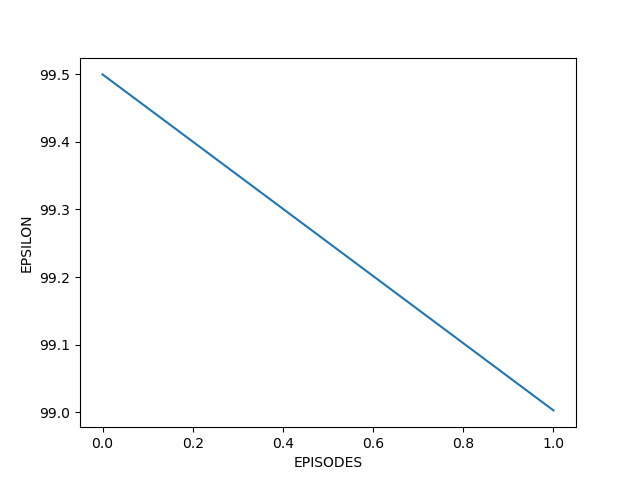
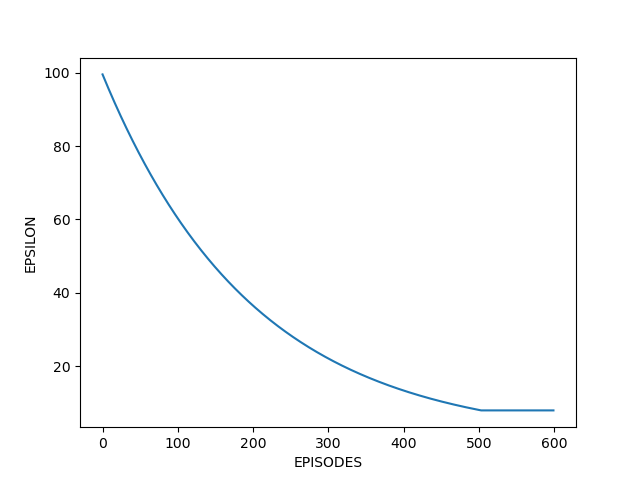
per commit

diff --git a/Implementation/PER/code/main.py b/Implementation/PER/code/main.py
@@ -1,6 +1,7 @@
 import gym
 import torch.optim as optim
 import torch
+import csv
 from DDQNAgent import DDQNAgent
 from ReplayBuffer import ReplayBuffer
 from train import *
@@ -9,7 +10,7 @@ from utils import *
 # HYPERPARAMETER
 BATCH_SIZE = 32
 BUFFER_MAXLEN = 10000
-EPISODES = 100
+EPISODES = 600
 GAMMA = 0.99
 LEARNING_RATE = 0.001
 TRAIN_RATE = 10
@@ -18,16 +19,17 @@ EPSILON_END = 0.08
 EPSILON_DECAY = 0.995
 EPSILON_SAMPLE = 0.01
 WEIGHT_DECAY = 0.001
-ALPHA = 0.7
-BETA = 0.5
-
+ALPHA = 0.3
+BETA_START = 0.5
+BETA_END = 1
+BETA_RATE = 1.001
 
 def main():
     env = gym.make('LunarLander-v2')
     agent_train = DDQNAgent()
     agent_target = DDQNAgent()
     agent_target.load_state_dict(agent_train.state_dict())
-    buffer = ReplayBuffer(BUFFER_MAXLEN, EPSILON_SAMPLE, ALPHA, BETA)
+    buffer = ReplayBuffer(BUFFER_MAXLEN, EPSILON_SAMPLE, ALPHA, BETA_START)
     optimizer = optim.Adam(agent_train.parameters(), lr=LEARNING_RATE, weight_decay=WEIGHT_DECAY)
     epsilon = EPSILON_START
     episode_lst, reward_lst, qvalue_lst, epsilon_lst = [], [], [], []
@@ -59,19 +61,28 @@ def main():
             # train for each step and update
             if buffer.size() > 5000:
                 if step_cnt % 10 and step_cnt != 0:
-                    # train_dqn() or train_ddqn()
                     train_ddqn(agent_train, agent_target, buffer, optimizer, BATCH_SIZE, GAMMA)
+
                 if step_cnt % 20 and step_cnt != 0:
                     load_network(agent_train, agent_target)
 
-        print("EPISODES : {:d}, REWARD : {:.1f}, EPSILON : {:.1f}%, BUFFER_SIZE : {:d} STEP CNT : {:d}".format(epi, reward_total, epsilon*100, buffer.size(), step_cnt))
+        print("EPISODES : {:d}, REWARD : {:.1f}, EPSILON : {:.1f}%, BUFFER_SIZE : {:d} STEP CNT : {:d}, BETA : {:.3f}".format(epi, reward_total, epsilon*100, buffer.size(), step_cnt, buffer.get_beta()))
         
         epsilon = decaying_eps(epsilon, EPSILON_END, EPSILON_DECAY)
+        buffer.improving_beta(BETA_END, BETA_RATE)
+
         # append list to plot
         episode_lst.append(epi)
         reward_lst.append(reward_total)
         qvalue_lst.append(qvalue_total / float(step_cnt))
         epsilon_lst.append(epsilon*100)
+    
+    with open('output_data.csv', 'w', newline='') as f:
+        writer = csv.writer(f)
+        writer.writerow(episode_lst)
+        writer.writerow(reward_lst)
+        writer.writerow(qvalue_lst)
+        writer.writerow(epsilon_lst)
 
     plot_reward(episode_lst, reward_lst)
     plot_qvalue(episode_lst, qvalue_lst)

diff --git a/Implementation/PER/code/ReplayBuffer.py b/Implementation/PER/code/ReplayBuffer.py
@@ -15,7 +15,7 @@ class ReplayBuffer():
         self.buffer.append(step_data)
 
     def get_priority(self):
-        # rank-based prioritization
+        # get priority(td error + epsilon) in whole memory
         td_errors = []
         for i in range(len(self.buffer)):
             td_error_item= self.buffer[i][0].detach().numpy().item()
@@ -27,10 +27,8 @@ class ReplayBuffer():
 
     def update_priority(self, td_error_lst, selected_idx):
         for i in range(len(td_error_lst)):
-            print("BEFORE UPDATE : ", self.buffer[selected_idx[i]][0])
             self.buffer[selected_idx[i]][0] = td_error_lst[i]
-            print("AFTER UPDATE : ", self.buffer[selected_idx[i]][0])
-   
+
     def sample(self, batch_size):
         priority = self.get_priority()
         probability = priority / np.sum(priority)
@@ -52,6 +50,26 @@ class ReplayBuffer():
             done_lst.append(done)
 
         return torch.tensor(state_lst, dtype=torch.float32), torch.tensor(action_lst), torch.tensor(reward_lst, dtype=torch.float32), torch.tensor(obs_lst), torch.tensor(done_lst, dtype=torch.float32), selected_idx
+    
+    def get_is_weight(self, selected_idx, batch_size):
+        # get IS-weight for sampled element
+        priority = self.get_priority()
+        probability = priority / np.sum(priority)
+        # is_weight -> IS-weight for all element
+        is_weight = (self.size() * probability) ** (-self.beta)
+        selected_is_weight = []
+        for i in range(batch_size):
+            selected_is_weight.append(is_weight[selected_idx[i]])
+        selected_is_weight = selected_is_weight / np.max(is_weight)
+        
+        return selected_is_weight
+
+    def improving_beta(self, beta_end, beta_rate):
+        if self.beta < beta_end:
+            self.beta *= beta_rate
 
     def size(self):
         return len(self.buffer)
+
+    def get_beta(self):
+        return self.beta

diff --git a/Implementation/PER/code/train.py b/Implementation/PER/code/train.py
@@ -1,9 +1,11 @@
 from ReplayBuffer import *
 from DDQNAgent import DDQNAgent
 import torch.nn.functional as F
+import torch
 
 def train_ddqn(agent_train, agent_target, buffer, optimizer, batch_size, gamma):
     state_lst, action_lst, reward_lst, obs_lst, done_lst, selected_idx = buffer.sample(batch_size)
+            
     action_lst, reward_lst, done_lst = action_lst.unsqueeze(1), reward_lst.unsqueeze(1), done_lst.unsqueeze(1)
     
     q_lst = agent_train(state_lst).gather(1, action_lst)
@@ -11,10 +13,13 @@ def train_ddqn(agent_train, agent_target, buffer, optimizer, batch_size, gamma):
     target_action_lst = agent_train(obs_lst).max(1)[1].unsqueeze(1)
     q_prime_lst = agent_target(obs_lst).gather(1, target_action_lst)
     td_target_lst = reward_lst + gamma * q_prime_lst * done_lst
+    # get IS-weight
+    is_weight = buffer.get_is_weight(selected_idx, batch_size)
     td_error_lst = abs(td_target_lst - q_lst)
-    loss = F.mse_loss(q_lst, td_target_lst)
+    # update priority for selected samples    
+    buffer.update_priority(td_error_lst, selected_idx)
+    loss = (F.mse_loss(q_lst, td_target_lst) * torch.tensor(is_weight)).mean()
+
     optimizer.zero_grad()
     loss.backward()
     optimizer.step()
-
-    buffer.update_priority(td_error_lst, selected_idx)

diff --git a/Implementation/PER/code/test.py b/Implementation/PER/code/test.py
@@ -7,7 +7,7 @@ TEST_EPISODES = 100
 def main():
     env = gym.make('LunarLander-v2')
     agent_trained = DDQNAgent()
-    agent_trained.load_state_dict(torch.load('Implementation/DuelingNet/trained_model/trained_model'))
+    agent_trained.load_state_dict(torch.load('trained_model'))
     
     for epi in range(TEST_EPISODES):
         done = False

diff --git a/Implementation/PER/scratch.py b/Implementation/PER/scratch.py
@@ -1,6 +1,13 @@
 import numpy as np
 import collections
 
-a = np.array([1, 3, 2, 5, 4])
-rank = a.argsort() + 1
-print(rank)
+a = 1
+
+print(a)
+
+def func(a):
+    a + 1
+
+func(a)
+
+print(a)
